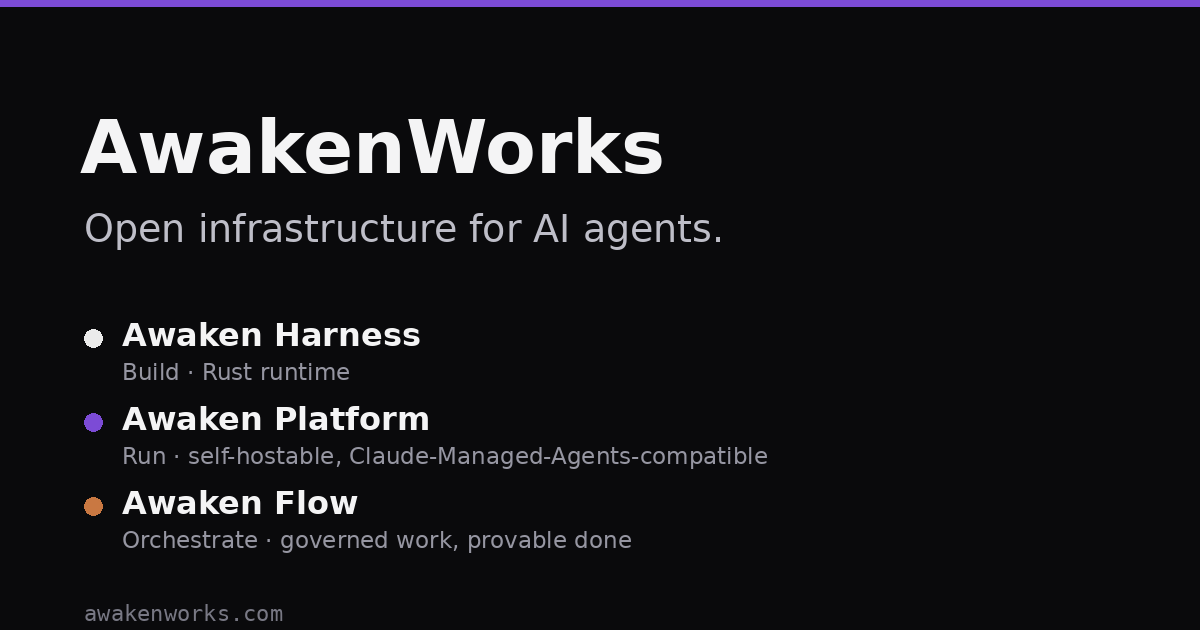
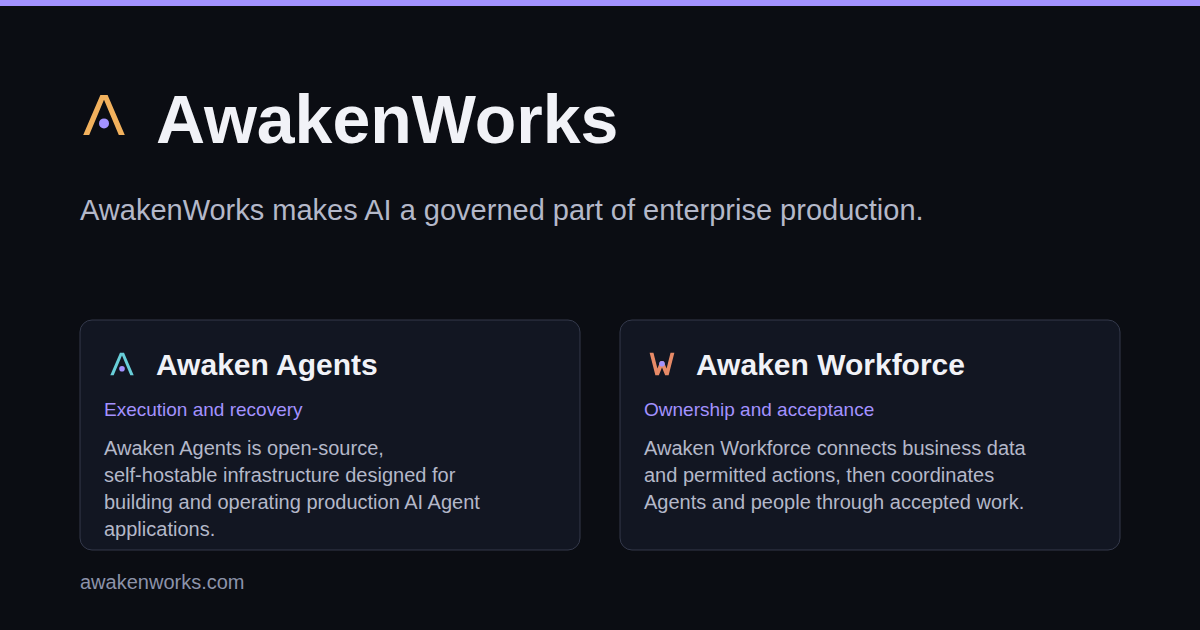
🧹 refactor(site): remove legacy branding and unify content and telemetry owners

diff --git a/tests/appearance.spec.ts b/tests/appearance.spec.ts
@@ -9,7 +9,7 @@ import { createHash } from "node:crypto";
 // chrome must wrap into available rows; search retains its name with hidden text.
 // Runtime failure combinations live in @awaken/ui tests.
 for (const lang of ["en", "zh"]) {
-  for (const width of [1280, 390]) {
+  for (const width of [1280, 390, 320]) {
     test(`${lang} ${width}px preserves one appearance across product and docs routes`, async ({ page }) => {
       const errors: string[] = [];
       page.on("pageerror", (error) => errors.push(error.message));
@@ -120,6 +120,13 @@ for (const lang of ["en", "zh"]) {
     await expect(page.locator(`footer a[href="${base}/objects"]`)).toHaveCount(0);
     const graph = await page.locator('script[type="application/ld+json"]').evaluate((node) => JSON.parse(node.textContent ?? "{}")["@graph"]);
     expect(graph.filter((entity: { "@type": string }) => entity["@type"] === "SoftwareApplication").map((entity: { name: string }) => entity.name).sort()).toEqual(["Awaken Agents", "Awaken Workforce"]);
+    // P8 social sharing consumes the same two-product identity; old Harness,
+    // Platform and Flow product branding cannot survive in the SVG source.
+    const social = await (await page.request.get("/og.svg")).text();
+    expect(social.match(/data-product="/g)).toHaveLength(2);
+    expect(social).toContain("Awaken Agents");
+    expect(social).toContain("Awaken Workforce");
+    expect(social).not.toMatch(/Awaken (?:Harness|Platform|Flow)/);
     for (const [requested, expected, capability] of [["agents", "agents", ""], ["workforce", "workforce", ""], ["objects", "workforce", "objects"], ["unknown", "workforce", ""]]) {
       await page.goto(`${base}/enterprise?product=${requested}&scenario=enterprise-private-agent`);
       const form = page.locator("form[data-opportunity-form]");
@@ -202,6 +209,64 @@ for (const behavior of ["pending", "rejected", "throw", "missing"]) {
     const recorded = await page.evaluate(() => JSON.parse(sessionStorage.getItem("telemetry-call") ?? "[]"));
     expect(recorded.length).toBe(behavior === "missing" ? 0 : 1);
     if (recorded.length) expect(recorded[0]).toEqual({ name: "case_source_access_selected", data: { location: "case-availability", product: "agents", destination: "enterprise" } });
+    expect(failures).toEqual([]);
+  });
+
+  // Form decision table F1 incomplete inputs -> zero requests; F2 valid inputs
+  // + pending POST + repeat submit -> one request; F3 HTTP failure -> retained
+  // inputs/id and retry; F4 retry success -> one success surface with focus.
+  // Analytics missing/throw/reject/pending cannot change F1-F4. POSTs are
+  // intercepted at the existing endpoint: no external contact is generated.
+  test(`form failure and retry retain their outcome with ${behavior} analytics`, async ({ page }) => {
+    const failures: string[] = [];
+    page.on("pageerror", (error) => failures.push(error.message));
+    await page.route("https://cloud.umami.is/script.js", (route) => route.fulfill({ status: 200, contentType: "application/javascript", body: "" }));
+    await page.addInitScript((mode) => {
+      if (mode === "missing") return;
+      (window as unknown as { umami: unknown }).umami = { track() {
+        if (mode === "throw") throw new Error("collector unavailable");
+        if (mode === "rejected") return Promise.reject(new Error("collector unavailable"));
+        return new Promise(() => {});
+      } };
+    }, behavior);
+    let requests = 0;
+    let release!: () => void;
+    const held = new Promise<void>((resolve) => { release = resolve; });
+    await page.route("https://formspree.io/f/mrewzorl", async (route) => {
+      requests++;
+      if (requests === 1) await held;
+      await route.fulfill({ status: requests === 1 ? 503 : 200, contentType: "application/json", body: "{}" });
+    });
+    await page.goto("/zh/enterprise?product=agents&reference_case=pilot");
+    const form = page.locator("form[data-opportunity-form]");
+    const submit = form.locator('button[type="submit"]');
+    await submit.click();
+    expect(requests).toBe(0);
+    await form.locator('[name="email"]').fill("test@example.invalid");
+    await form.locator('[name="company"]').fill("Fixture only");
+    await form.locator('[name="job"]').fill("Review one repeatable job");
+    for (const name of ["role", "current_stage", "current_loss"]) {
+      const select = form.locator(`select[name="${name}"]`);
+      const value = await select.locator("option:not([disabled])").first().getAttribute("value");
+      await select.selectOption(value!);
+    }
+    await form.locator('[name="contact_consent"]').check();
+    const id = await form.locator('[name="submission_id"]').inputValue();
+    await submit.click();
+    await expect(form).toHaveAttribute("aria-busy", "true");
+    await form.evaluate((node) => (node as HTMLFormElement).requestSubmit());
+    await expect.poll(() => requests).toBe(1);
+    release();
+    await expect(form.locator(".opportunity-message")).toBeVisible();
+    await expect(form.locator('[name="submission_id"]')).toHaveValue(id);
+    await expect(form.locator('[name="job"]')).toHaveValue("Review one repeatable job");
+    await expect(submit).toBeEnabled();
+    await submit.click();
+    const success = form.locator("[data-opportunity-success]");
+    await expect(success).toBeVisible();
+    await expect(success).toBeFocused();
+    expect(requests).toBe(2);
+    await expect(form.locator("[data-opportunity-fields]")).toBeHidden();
     expect(failures).toEqual([]);
   });
 }

diff --git a/src/i18n/content.ts b/src/i18n/content.ts
@@ -47,9 +47,6 @@ export const content = {
       awaken: 'Awaken internals',
       products: 'Products',
       resources: 'Resources',
-      managed: 'Agents',
-      objects: 'Objects',
-      workforce: 'Workforce',
       enterprise: 'Enterprise deployment',
       cases: 'Reference builds',
       integrations: 'Integrations',
@@ -338,7 +335,7 @@ export const content = {
     products: {
       eyebrow: 'Two products, explicit availability',
       title: 'Build AI with Agents. Complete business work with Workforce.',
-      managed: {
+      agents: {
         tone: 'iris',
         layer: 'Managed Agents-compatible platform',
         status: publicVersionLabel('platform', 'en'),
@@ -354,23 +351,6 @@ export const content = {
         ],
         cta: 'Explore Agents',
         href: '/agents',
-      },
-      objects: {
-        tone: 'amber',
-        layer: 'Workforce capability · Objects',
-        status: publicProductLabel('objects', 'en'),
-        license: 'Early access by request',
-        audience: 'For data, business systems, and internal application teams',
-        name: 'Business Data & Actions (Objects)',
-        role: 'Business context',
-        tagline: 'Give people, applications, and Agents the same business facts and actions.',
-        points: [
-          'Let each Pack declare ResourceType data, relationships, Actions, and restrained presentation hints.',
-          'Render every admitted field and nested value through one generic, schema-driven Objects experience.',
-          'Admit every proposed change through deterministic validation, authorization, revision checks, and a structured receipt.',
-        ],
-        cta: 'Explore Objects',
-        href: '/objects',
       },
       workforce: {
         tone: 'rust',
@@ -428,7 +408,7 @@ export const content = {
     },
 
     landing: {
-      managed: {
+      agents: {
         tone: 'iris',
         eyebrow: 'Awaken Agents · Agent application infrastructure',
         status: { label: publicVersionLabel('platform', 'en'), tone: 'iris' },
@@ -703,9 +683,6 @@ export const content = {
       awaken: 'Awaken 内部机制',
       products: '产品',
       resources: '资源',
-      managed: 'Agents',
-      objects: 'Objects',
-      workforce: 'Workforce',
       enterprise: '企业部署',
       cases: '参考实现',
       integrations: '集成',
@@ -994,7 +971,7 @@ export const content = {
     products: {
       eyebrow: '两款产品，分别说明可用范围',
       title: '用 Agents 构建 AI，用 Workforce 持续完成业务工作。',
-      managed: {
+      agents: {
         tone: 'iris',
         layer: 'Managed Agents 兼容平台',
         status: publicVersionLabel('platform', 'zh'),
@@ -1010,23 +987,6 @@ export const content = {
         ],
         cta: '了解 Agents',
         href: '/agents',
-      },
-      objects: {
-        tone: 'amber',
-        layer: 'Workforce 能力 · Objects',
-        status: publicProductLabel('objects', 'zh'),
-        license: '可申请提前体验',
-        audience: '面向数据、业务系统与内部应用团队',
-        name: '业务数据与受控操作（Objects）',
-        role: '业务上下文',
-        tagline: '让人、应用与 Agent 使用同一份业务事实与动作。',
-        points: [
-          '让 Pack 声明 ResourceType 数据、关系、Action 与受限呈现提示。',
-          '通过一套通用、schema 驱动的 Objects 体验完整展示所有已准入字段与嵌套值。',
-          '每项候选变更都经过确定性校验、授权、revision 检查并返回结构化回执。',
-        ],
-        cta: '了解 Objects',
-        href: '/objects',
       },
       workforce: {
         tone: 'rust',
@@ -1084,7 +1044,7 @@ export const content = {
     },
 
     landing: {
-      managed: {
+      agents: {
         tone: 'iris',
         eyebrow: 'Awaken Agents · Agent 应用基础设施',
         status: { label: publicVersionLabel('platform', 'zh'), tone: 'iris' },
@@ -1358,6 +1318,6 @@ export function publicProductEntries(lang: Lang) {
   return Object.entries(publicProducts).map(([key, metadata]) => ({
     key: key as keyof typeof publicProducts,
     ...metadata,
-    ...content[lang].products[metadata.copyKey],
+    ...content[lang].products[key as keyof typeof publicProducts],
   }));
 }

diff --git a/src/i18n/docsVersions.ts b/src/i18n/docsVersions.ts
@@ -13,6 +13,7 @@
 // automatically.
 
 import type { Lang } from './locales';
+import provenance from '../../config/source-provenance.json';
 
 export type { Lang } from './locales';
 export type VersionStatus = 'dev' | 'stable' | 'archived';
@@ -20,8 +21,8 @@ export type DocsProduct = 'flow' | 'harness' | 'platform';
 // One public product catalog feeds navigation, cards, docs and request choices.
 // Objects retains its technical routes and domain ownership inside Workforce.
 export const publicProducts = {
-  agents: { copyKey: 'managed', path: '/agents', docsPath: '/docs/agents', tone: 'iris', status: 'open-source-release-coming-soon' },
-  workforce: { copyKey: 'workforce', path: '/workforce', docsPath: '/docs/workforce', tone: 'rust', status: 'early-preview' },
+  agents: { path: '/agents', docsPath: '/docs/agents', tone: 'iris', status: 'open-source-release-coming-soon' },
+  workforce: { path: '/workforce', docsPath: '/docs/workforce', tone: 'rust', status: 'early-preview' },
 } as const;
 export type PublicProduct = keyof typeof publicProducts;
 export type PublicCapability = 'objects';
@@ -42,29 +43,25 @@ export interface DocsVersion {
   verifiedOn: string;
 }
 
+// Both Agent documentation collections share one release record. The committed
+// provenance lock owns source identity; route collections do not repin it.
+const agentsVersions: DocsVersion[] = [{
+    id: 'current',
+    label: 'v1.0.0-dev',
+    status: 'dev',
+    latest: true,
+    sourceRevision: provenance.repositories.awaken.revision,
+    verifiedOn: '2026-08-31',
+}];
 export const docsVersions: Record<DocsProduct, DocsVersion[]> = {
+  harness: agentsVersions,
+  platform: agentsVersions,
   flow: [{
     id: 'current',
     label: 'v0.1.0',
     status: 'dev',
     latest: true,
-    sourceRevision: 'b75e0ff924b17231d712860ead910970f4c098de',
-    verifiedOn: '2026-08-31',
-  }],
-  harness: [{
-    id: 'current',
-    label: 'v1.0.0-dev',
-    status: 'dev',
-    latest: true,
-    sourceRevision: '50d5035c68456c9106626f748cf4c169c2057beb',
-    verifiedOn: '2026-08-31',
-  }],
-  platform: [{
-    id: 'current',
-    label: 'v1.0.0-dev',
-    status: 'dev',
-    latest: true,
-    sourceRevision: '50d5035c68456c9106626f748cf4c169c2057beb',
+    sourceRevision: provenance.repositories.flow.revision,
     verifiedOn: '2026-08-31',
   }],
 };

diff --git a/src/pages/og.svg.ts b/src/pages/og.svg.ts
@@ -1,0 +1,31 @@
+import type { APIRoute } from 'astro';
+import { renderBrandMarkSvg } from '@awaken/ui/brand';
+import { canonicalEntities, publicProductEntries } from '../i18n/content';
+
+export const prerender = true;
+const escape = (value: string) => value.replaceAll('&', '&amp;').replaceAll('<', '&lt;').replaceAll('"', '&quot;');
+const lines = (value: string, limit: number) => {
+  const result: string[] = [];
+  for (const word of value.split(' ')) {
+    if (!result.length || result.at(-1)!.length + word.length + 1 > limit) result.push(word);
+    else result[result.length - 1] += ` ${word}`;
+  }
+  return result;
+};
+const mark = (name: 'works' | 'agents' | 'workforce', x: number, y: number, size: number) =>
+  renderBrandMarkSvg(name, 'on-dark').replace('<svg ', `<svg x="${x}" y="${y}" width="${size}" height="${size}" `);
+
+// Same product and brand owners as the homepage; PNG is a rendered derivative.
+export const GET: APIRoute = () => new Response(`<svg xmlns="http://www.w3.org/2000/svg" width="1200" height="630" viewBox="0 0 1200 630">
+<rect width="1200" height="630" fill="#0b0d13"/><rect width="1200" height="6" fill="#a392ff"/>
+${mark('works', 72, 83, 64)}
+<g fill="#f1f2f7" font-family="Arial, sans-serif"><text x="156" y="143" font-size="68" font-weight="700">AwakenWorks</text>
+${lines(canonicalEntities.en.company, 64).map((line, index) => `<text x="80" y="220" dy="${index * 38}" fill="#b4b8c9" font-size="29">${escape(line)}</text>`).join('')}
+${publicProductEntries('en').map((product, index) => {
+  const x = 80 + index * 540;
+  return `<g data-product="${product.key}"><rect x="${x}" y="320" width="500" height="230" rx="12" fill="#121622" stroke="#34394b"/>
+${mark(product.key, x + 24, 346, 36)}<text x="${x + 76}" y="375" font-size="30" font-weight="700">${escape(product.name)}</text>
+<text x="${x + 24}" y="416" fill="#a392ff" font-size="19">${escape(product.role)}</text>
+${lines(product.tagline, 42).map((line, row) => `<text x="${x + 24}" y="455" dy="${row * 27}" fill="#b4b8c9" font-size="20">${escape(line)}</text>`).join('')}</g>`;
+}).join('')}
+<text x="80" y="589" fill="#8c93aa" font-size="20">awakenworks.com</text></g></svg>`, { headers: { 'Content-Type': 'image/svg+xml' } });

diff --git a/README.md b/README.md
@@ -62,6 +62,11 @@ flowchart LR
 Git 工作树。`config/source-provenance.json` 锁定已核对源码的精确 revision 和文档引用的
 实现证据。产品仓库中的类型、测试和可执行合约仍是技术行为的最终权威。
 
+平台与 Runtime 文档集合共用一个 Agents 版本记录，源码 revision 只从
+`config/source-provenance.json` 读取。社交分享图由 `src/pages/og.svg.ts` 使用同一产品
+目录和共享品牌几何生成；更新产品文案后运行 `pnpm social:generate`，提交生成的
+`public/og.png`，再完成正常构建与检查。
+
 只有在升级文档源码基线时，维护者才需要显式提供两个源码仓路径并刷新锁文件：
 
 ```sh

diff --git a/src/content/docs/platform/current/en/how-to/configure-agent-behavior.md b/src/content/docs/platform/current/en/how-to/configure-agent-behavior.md
@@ -50,7 +50,7 @@ before publishing if the model readiness check does not yet succeed.
 Create or open an Agent in the Console. Change only the behavior needed for the
 next Session, then save the draft.
 
-![Awaken Console Agent editor, used to configure an Agent before validation and publication.](/awaken/assets/admin-console/02-agent-editor.png)
+![Awaken Console Agent editor, used to configure an Agent before validation and publication.](/awaken/assets/console-current/agent-editor.png)
 
 Online configuration can select or narrow capabilities the system already
 provides. It cannot add a Rust Tool, provider adapter, Plugin, or Sandbox backend,

diff --git a/src/content/docs/platform/current/zh/how-to/configure-agent-behavior.md b/src/content/docs/platform/current/zh/how-to/configure-agent-behavior.md
@@ -43,7 +43,7 @@ evidence:
 
 在 Console 中创建或打开 Agent。只修改下一个 Session 所需的行为，然后保存草稿。
 
-![Awaken Console 的 Agent 编辑器：在校验与发布前配置 Agent 行为。](/awaken/assets/admin-console/02-agent-editor.png)
+![Awaken Console 的 Agent 编辑器：在校验与发布前配置 Agent 行为。](/awaken/assets/console-current/agent-editor.png)
 
 在线配置只能选择或收窄系统已经提供的能力。它不能新增 Rust Tool、provider adapter、
 Plugin 或 Sandbox backend，也不能授予当前 Workspace 原本没有的权限。

diff --git a/src/content/blog/zh/2026-08-awaken-runtime-boundary.md b/src/content/blog/zh/2026-08-awaken-runtime-boundary.md
@@ -101,7 +101,7 @@ flowchart LR
 
 ## 在一份运营记录里检查结果
 
-![Awaken Console 同时展示 Run、Provider、MCP 与审计状态](/awaken/assets/admin-console/01-dashboard.png)
+![Awaken Console 同时展示 Run、Provider、MCP 与审计状态](/awaken/assets/console-current/overview.png)
 
 用 Console 回答实际问题：当前是哪一个 Run、用了哪个 Provider 与 MCP 连接、是否正在等待
 审批，以及失败前已经提交了什么。Console 投影同一份执行记录，不要求运营者再对齐另一套

diff --git a/src/content/blog/en/2026-08-awaken-runtime-boundary.md b/src/content/blog/en/2026-08-awaken-runtime-boundary.md
@@ -114,7 +114,7 @@ change isolation or ownership.
 
 ## Check one operating record
 
-![Awaken Console showing Runs, Providers, MCP, and audit state together](/awaken/assets/admin-console/01-dashboard.png)
+![Awaken Console showing Runs, Providers, MCP, and audit state together](/awaken/assets/console-current/overview.png)
 
 Use the Console to answer practical questions: which Run is current, which
 Provider and MCP connection it used, whether it is waiting for approval, and
